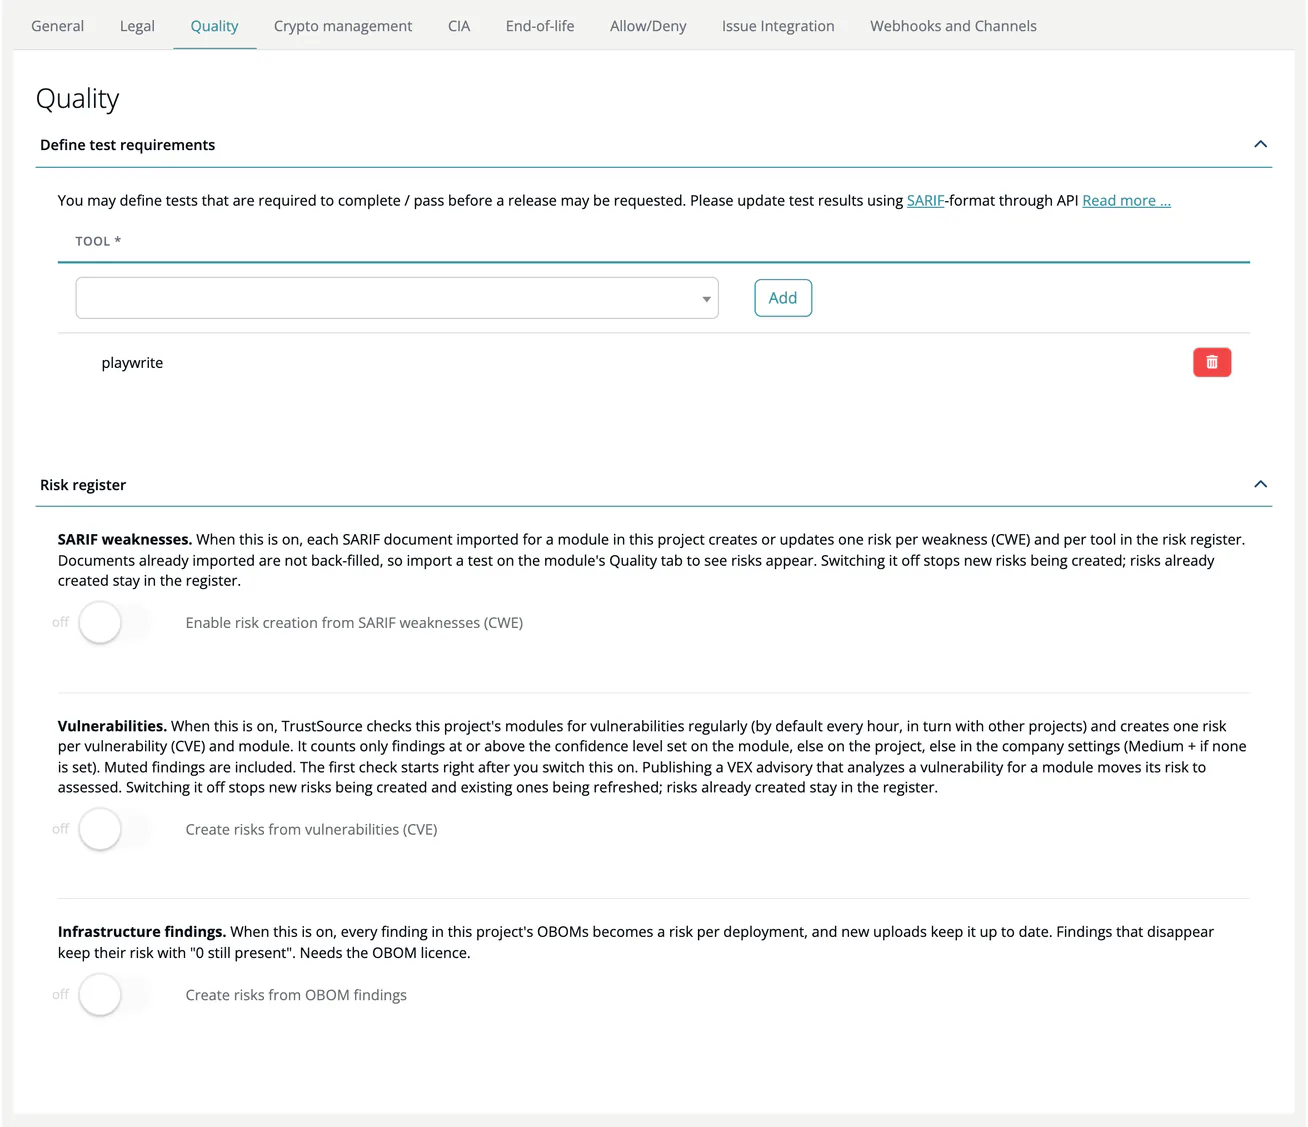
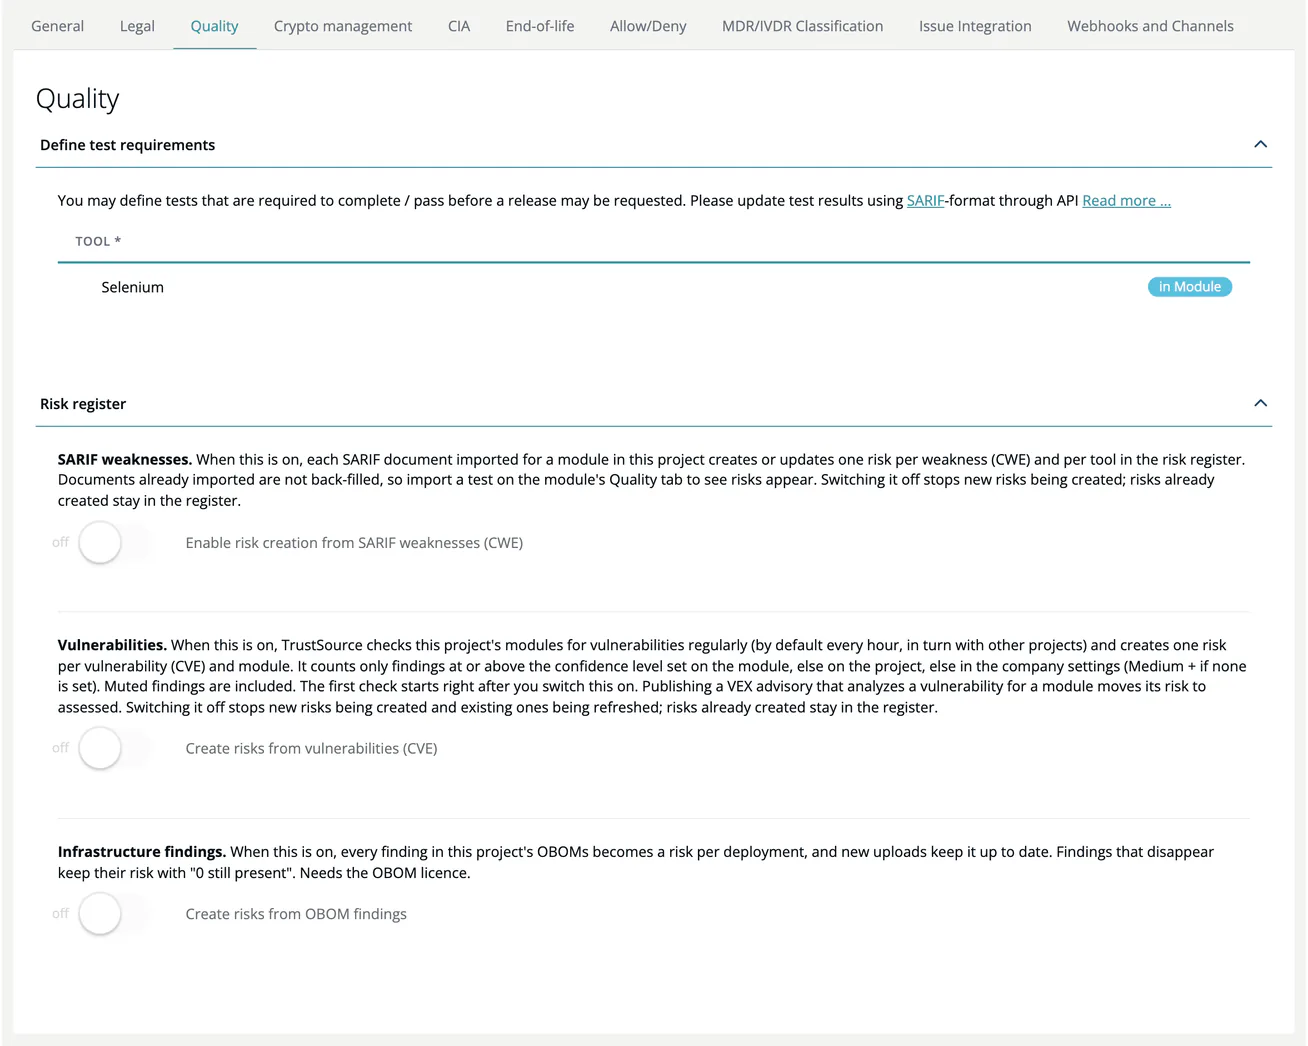
docs(v3): Quality shots with Selenium as the required test tool
The DEV project mAIfit required the catalog tool "playwrite"; it now requires Selenium.
On DEV 3.3.66 the screenshot user only reads the project Quality tab, so that shot
shows the read-only view.

diff --git a/docs/v3/03-internal/01-projects/settings/04-quality.md b/docs/v3/03-internal/01-projects/settings/04-quality.md
@@ -15,7 +15,7 @@ The panel **Define test requirements** has one row per required tool, for exampl
 
 Rows that come from the company's quality list carry the label **in Company**. Every module of the project shows the project rows with the label **in Project**. The test results are reported on the **SW-Quality** tab of an approval.
 
-![The Quality tab of mAIfit with the Define test requirements panel, its Tool selector, the Add button and one required tool, and the Risk register panel with its three switches for SARIF weaknesses, vulnerabilities and OBOM findings.](../../../../assets/images/v3/03-internal/01-projects/settings/04-quality-1.webp)
+![The Quality tab of mAIfit as a user without write access sees it: the Define test requirements panel with the required tool Selenium and no Tool selector, and the Risk register panel with its three switches for SARIF weaknesses, vulnerabilities and OBOM findings, all off.](../../../../assets/images/v3/03-internal/01-projects/settings/04-quality-1.webp)
 
 ## Risk register
 

diff --git a/docs/v3/03-internal/02-modules/settings/12-quality.md b/docs/v3/03-internal/02-modules/settings/12-quality.md
@@ -23,4 +23,4 @@ Upload the test results of every required tool as SARIF with the module's scans,
 
 - [Quality (Project)](../../01-projects/settings/04-quality.md)
 
-![The Quality tab of the module admin-service: Define test requirements with the note on SARIF test results, the Tool selector with the Add button, and the required tool playwrite inherited from the project, labelled in Project.](../../../../assets/images/v3/03-internal/02-modules/settings/12-quality-1.webp)
+![The Quality tab of the module admin-service: Define test requirements with the note on SARIF test results, the Tool selector with the Add button, and the required tool Selenium inherited from the project, labelled in Project.](../../../../assets/images/v3/03-internal/02-modules/settings/12-quality-1.webp)
